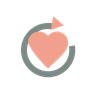
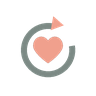
ui: 答题toast短文案防闪现；弹窗确定键品牌绿；tabBar 今日/周计划图标对调；复习爱心换用户素材
- onReviewResult 长文字 toast（记得，下一次会更晚复习…）快速连按反复弹出，
  像整个模块闪现 → 改「已记住/稍后再来」800ms
- wx.showModal 确定键默认微信蓝 → confirmColor #176B5B（设置页 5 处）
- 图标对调：今日=时钟、周计划=日历（用户提议，语义更贴）
- 复习图标爱心弃用自绘，改用户提供的爱心素材（GIF 抠图+渐变 alpha 蒙版重着色），
  宽 30 居中于环心，四周留白 ~6 不压环
- ghost 按压色 #EAF5F0→#DCEFE7（白色按钮按压更明显）
- 测试台 75 项全过

Changed region(s): [[0.2812, 0.3125, 0.7188, 0.7188]]

diff --git a/miniprogram/pages/settings/settings.js b/miniprogram/pages/settings/settings.js
@@ -79,10 +79,10 @@ Page({
   onTestVoice(){if(this.data.voiceTesting){speech.stop();return;}const d=plan.demo();if(d&&d.example){speech.speak(d.example,{ai:d.ai,kind:'s'});}else{speech.speak('Hello. Nice to meet you. This is your daily learning voice.');}},
   onAccent(e){const idx=Number(e.detail.value),accent=this.data.accentOptions[idx].value;store.set('accent',accent);speech.setAccent(accent);this.setData({accent,accentIndex:idx});},
   backupSummaryOf(text){try{const o=JSON.parse(text);return (o&&typeof o.summary==='string')?o.summary:'';}catch(e){return '';}},
-  onExport(){let text;try{text=store.exportBackup();}catch(e){wx.showToast({title:'导出失败',icon:'none'});return;}const s=this.backupSummaryOf(text);this.setData({backupText:text,showBackup:true,showImport:false,importText:''});wx.setClipboardData({data:text,success:()=>wx.showModal({title:'备份已导出',content:(s?s+'\n\n':'')+'全文已复制到剪贴板，粘贴到备忘录等处保存即可。',showCancel:false}),fail:()=>wx.showToast({title:'复制失败，请长按选中文本手动复制',icon:'none',duration:2500})});},
+  onExport(){let text;try{text=store.exportBackup();}catch(e){wx.showToast({title:'导出失败',icon:'none'});return;}const s=this.backupSummaryOf(text);this.setData({backupText:text,showBackup:true,showImport:false,importText:''});wx.setClipboardData({data:text,success:()=>wx.showModal({title:'备份已导出',content:(s?s+'\n\n':'')+'全文已复制到剪贴板，粘贴到备忘录等处保存即可。',showCancel:false,confirmColor:'#176B5B'}),fail:()=>wx.showToast({title:'复制失败，请长按选中文本手动复制',icon:'none',duration:2500})});},
   onCopyBackup(){wx.setClipboardData({data:this.data.backupText,success:()=>wx.showToast({title:'已复制',icon:'success'}),fail:()=>wx.showToast({title:'复制失败，请长按上方文本手动复制',icon:'none',duration:2500})});},
   onHideBackup(){this.setData({showBackup:false});},onShowImport(){this.setData({showImport:true,showBackup:false,importText:''});},onHideImport(){this.setData({showImport:false,importText:''});},onImportInput(e){this.setData({importText:e.detail.value});},
-  doImport(mode){const text=(this.data.importText||'').trim();if(!text){wx.showToast({title:'请先粘贴备份内容',icon:'none'});return;}let r;try{r=store.importBackup(text,mode);}catch(e){wx.showModal({title:'导入失败',content:e.message||String(e),showCancel:false});return;}this.setData({showImport:false,importText:''});this.refresh();const bs=this.backupSummaryOf(text);const head=mode==='merge'?'合并完成':'覆盖完成';const detail=(bs?('该备份：'+bs+'\n\n'):'')+(mode==='merge'?('新增 '+r.addedDays+' 天打卡、'+r.addedWords+' 个重点词\n合并后共 '+r.totalDays+' 天、'+r.totalWords+' 个重点词\n已恢复 '+r.reviewWords+' 个复习记录'):('已替换为备份中的 '+r.totalDays+' 天打卡、'+r.totalWords+' 个重点词、'+r.reviewWords+' 个复习记录'));wx.showModal({title:head,content:detail,showCancel:false});},
+  doImport(mode){const text=(this.data.importText||'').trim();if(!text){wx.showToast({title:'请先粘贴备份内容',icon:'none'});return;}let r;try{r=store.importBackup(text,mode);}catch(e){wx.showModal({title:'导入失败',content:e.message||String(e),showCancel:false,confirmColor:'#176B5B'});return;}this.setData({showImport:false,importText:''});this.refresh();const bs=this.backupSummaryOf(text);const head=mode==='merge'?'合并完成':'覆盖完成';const detail=(bs?('该备份：'+bs+'\n\n'):'')+(mode==='merge'?('新增 '+r.addedDays+' 天打卡、'+r.addedWords+' 个重点词\n合并后共 '+r.totalDays+' 天、'+r.totalWords+' 个重点词\n已恢复 '+r.reviewWords+' 个复习记录'):('已替换为备份中的 '+r.totalDays+' 天打卡、'+r.totalWords+' 个重点词、'+r.reviewWords+' 个复习记录'));wx.showModal({title:head,content:detail,showCancel:false,confirmColor:'#176B5B'});},
   onImportMerge(){this.doImport('merge');},onImportReplace(){this.doImport('replace');},
   onResetProgress(){wx.showModal({title:'清除学习记录',content:'将清空全部打卡、收藏与复习记录，云端一并清除，其他设备同步后同样清空，无法撤销。建议先「导出备份」。确定从0开始吗？',confirmText:'清除',confirmColor:'#C0392B',success:(r)=>{if(!r.confirm)return;store.resetProgress();this.refresh();wx.showToast({title:'已清除，重新开始',icon:'none',duration:2500});}});},
   // 云同步状态：只更新这一小块，避免每次 store 变更都整页 refresh
@@ -100,6 +100,6 @@ Page({
       cloudTip:sr.enabled?'进度自动同步，多台设备共用同一份进度。':'开启后进度自动同步，多台设备共用同一份进度。'});
   },
   onCloudToggle(e){const on=!!e.detail.value;this.setData({cloudOn:on});store.setSyncEnabled(on).then(r=>{this.refreshCloud();wx.showToast({title:(r&&r.ok)?(on?'云同步已开启':'云同步已关闭'):((r&&r.msg)||'操作失败'),icon:on&&r&&r.ok?'success':'none',duration:2200});});},
-  onSyncNow(){if(this.data.syncing)return;this.setData({syncing:true});store.syncNow().then(r=>{this.refreshCloud();wx.showModal({title:r.ok?'同步完成':'同步失败',content:r.ok?('进度已与云端对齐。\n'+(r.msg||'')):((r.msg||'未知错误')+'\n\n本地进度不受影响，可稍后点「立即同步」重试。'),showCancel:false});});},
-  onAbout(){wx.showModal({title:ABOUT_MODAL_TITLE,content:ABOUT_TEXT,showCancel:false});}
+  onSyncNow(){if(this.data.syncing)return;this.setData({syncing:true});store.syncNow().then(r=>{this.refreshCloud();wx.showModal({title:r.ok?'同步完成':'同步失败',content:r.ok?('进度已与云端对齐。\n'+(r.msg||'')):((r.msg||'未知错误')+'\n\n本地进度不受影响，可稍后点「立即同步」重试。'),showCancel:false,confirmColor:'#176B5B'});});},
+  onAbout(){wx.showModal({title:ABOUT_MODAL_TITLE,content:ABOUT_TEXT,showCancel:false,confirmColor:'#176B5B'});}
 });

diff --git a/miniprogram/custom-tab-bar/index.js b/miniprogram/custom-tab-bar/index.js
@@ -2,8 +2,8 @@ Component({
   data: {
     active: 0,
     list: [
-      { pagePath: 'pages/today/today', text: '今日', iconPath: '/images/today.png', selectedIconPath: '/images/today-active.png' },
-      { pagePath: 'pages/weeks/weeks', text: '周计划', iconPath: '/images/weeks.png', selectedIconPath: '/images/weeks-active.png' },
+      { pagePath: 'pages/today/today', text: '今日', iconPath: '/images/weeks.png', selectedIconPath: '/images/weeks-active.png' },
+      { pagePath: 'pages/weeks/weeks', text: '周计划', iconPath: '/images/today.png', selectedIconPath: '/images/today-active.png' },
       { pagePath: 'pages/review/review', text: '复习', iconPath: '/images/review.png', selectedIconPath: '/images/review-active.png' },
       { pagePath: 'pages/settings/settings', text: '设置', iconPath: '/images/settings.png', selectedIconPath: '/images/settings-active.png' }
     ]

diff --git a/miniprogram/pages/review/review.js b/miniprogram/pages/review/review.js
@@ -71,7 +71,8 @@ Page({
     const c = this.data.current;
     if (!c) return;
     store.reviewWord(c.w, remembered);
-    wx.showToast({ title: remembered ? '记得，下一次会更晚复习' : '记不牢，稍后再来', icon: 'none' });
+    // 长文字 toast 在快速连按时反复弹出，像整个模块在闪 —— 改短文案+短时长
+    wx.showToast({ title: remembered ? '已记住' : '稍后再来', icon: 'none', duration: 800 });
     this.setData({ current: null, showZh: false });
     if (this.data.tab === 'due') this.onNextDue();
   },
